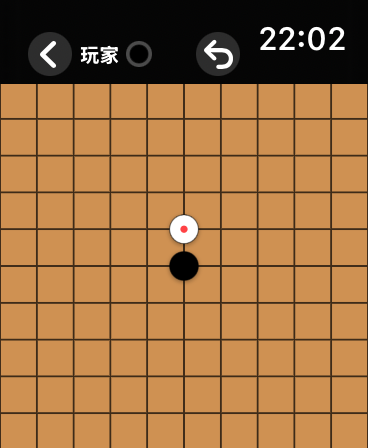
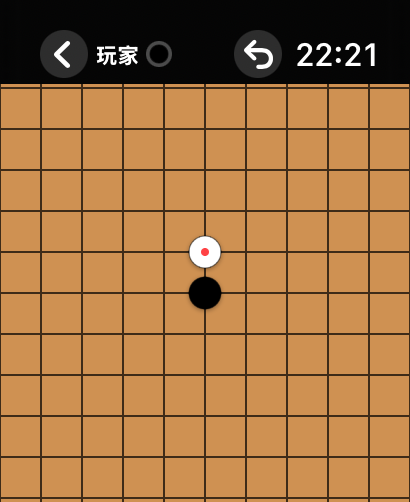
Use Apple Watch Ultra 2 screenshots in README [skip ci]

diff --git a/README.md b/README.md
@@ -14,7 +14,7 @@
 
 ## 界面预览
 
-以下为 44 mm Apple Watch 模拟器实测截图。
+以下为 Apple Watch Ultra 2（49mm）模拟器实测截图。
 
 <p>
   <img src="docs/screenshots/difficulty.png" alt="三档 AI 难度" width="184">
